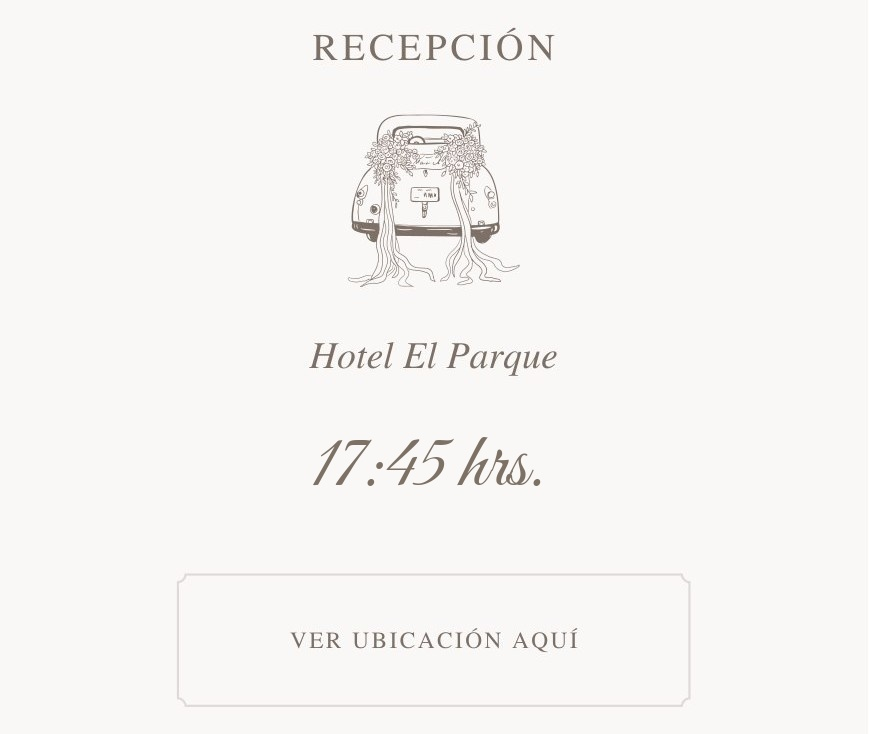
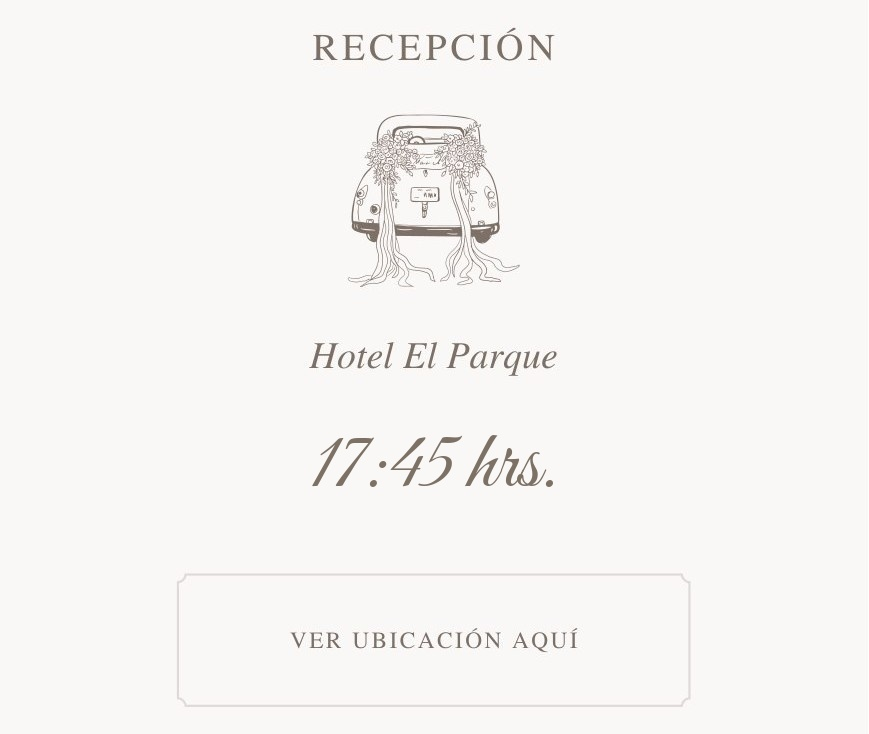
fix: fecha confirmacion 8 ene; recepcion 17:45 tamano/centrado como ceremonia

Changed region(s): [[0.3728, 0.5995, 0.6214, 0.6594]]

diff --git a/index.html b/index.html
@@ -147,7 +147,7 @@ textarea.rsvp2-input{resize:vertical}
 
     <!-- 5 · Recepción -->
     <section class="page reveal sep" id="p5">
-      <img src="img/pag5.jpg" alt="Recepción · Hotel El Parque · 18:00 hrs">
+      <img src="img/pag5.jpg?v=2" alt="Recepción · Hotel El Parque · 17:45 hrs">
       <a class="hot" href="https://www.google.com/maps/search/?api=1&query=Hotel%20el%20Parque%2C%20Villarrica" target="_blank" rel="noopener" aria-label="Ver ubicación Hotel El Parque"></a>
     </section>
 
@@ -185,7 +185,7 @@ textarea.rsvp2-input{resize:vertical}
     <section class="page reveal sep" id="p9">
       <img src="img/pag9.jpg" alt="Confirmación de asistencia">
       <div class="rsvp2">
-        <p class="rsvp2-note">Te pedimos confirmar tu asistencia a más tardar el <b>22 de enero</b>. Te agradecemos considerar que la invitación es personal y considera únicamente a las personas a quienes fue dirigida.</p>
+        <p class="rsvp2-note">Te pedimos confirmar tu asistencia a más tardar el <b>8 de enero</b>. Te agradecemos considerar que la invitación es personal y considera únicamente a las personas a quienes fue dirigida.</p>
         <form id="rsvpForm" class="rsvp2-form" method="POST" target="rsvp_sink"
               action="https://docs.google.com/forms/d/e/1FAIpQLSfqTGg9jCs-0gsePzsaNgcH1KL23E2YlMJitOaS31uKd3PqkA/formResponse">
           <label class="rsvp2-lbl" for="rsvpNombre">Nombre completo</label>
